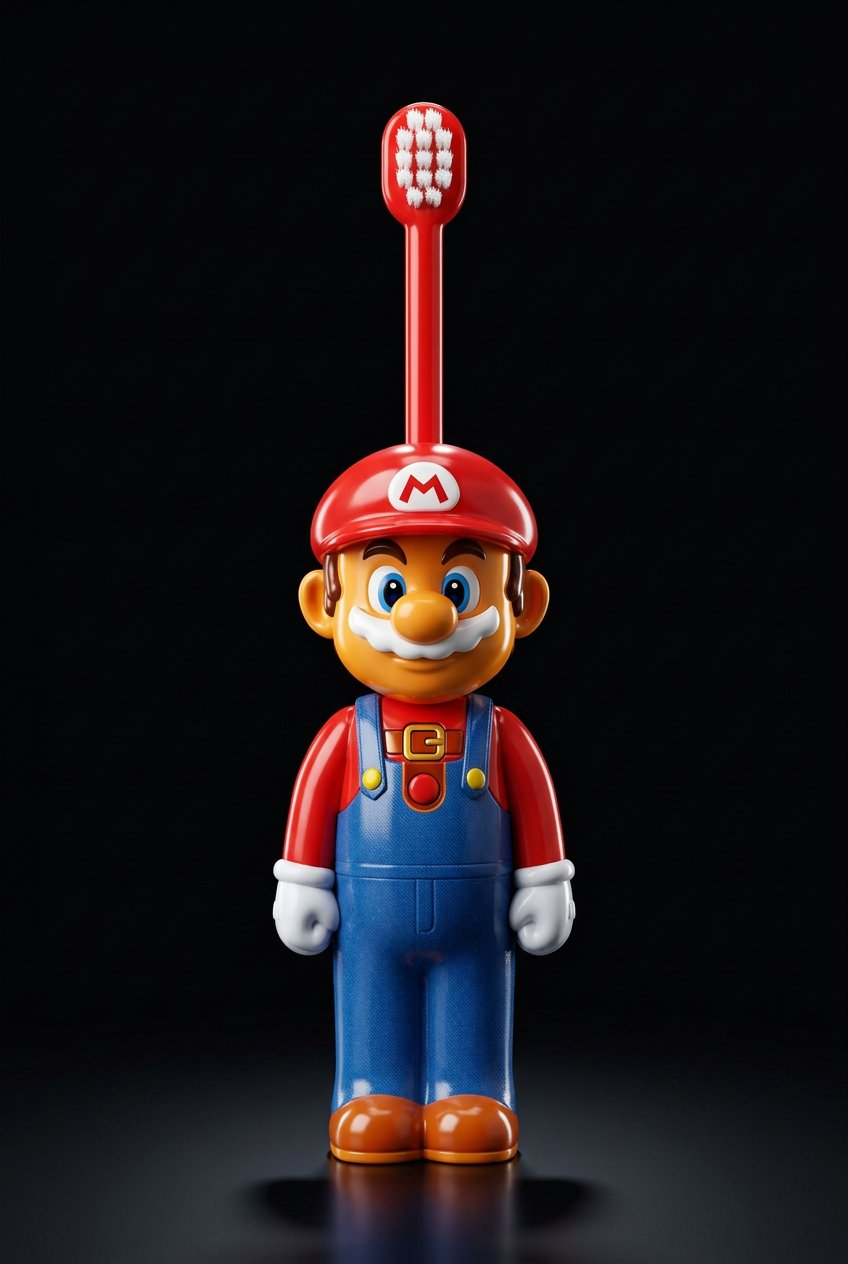
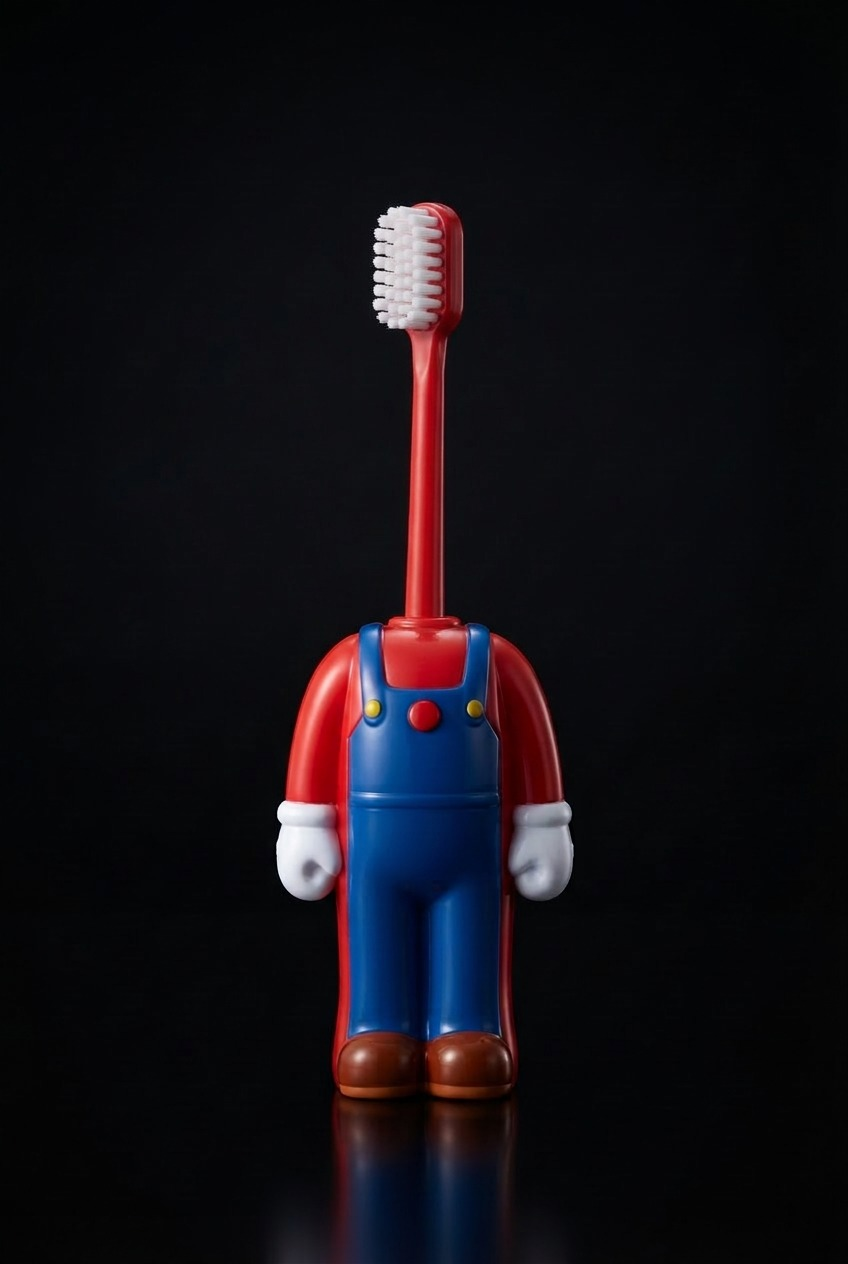
Fix Mario Toothbrush studio image to match the actual product
- studio shot regenerated from the real product photo (thin red stem,
  white bristle head, no giant bristle wand)
- og:image:alt and twitter:image:alt no longer print the ONLY \u20b999 badge
- hero alt text describes the real anatomy
- og card rebuilt with the corrected studio shot

Changed region(s): [[0.0, 0.0617, 1.0, 1.0]]

diff --git a/products/mario-toothbrush.html b/products/mario-toothbrush.html
@@ -14,34 +14,34 @@
   <link rel="preconnect" href="https://fonts.googleapis.com" />
   <link rel="preconnect" href="https://fonts.gstatic.com" crossorigin />
   <link href="https://fonts.googleapis.com/css2?family=Anton&family=Archivo:wght@500;600;700;800;900&family=Permanent+Marker&display=swap" rel="stylesheet" />
-  <link rel="stylesheet" href="/styles.css?v=tooth-20261122" />
-  <link rel="stylesheet" href="/product.css?v=tooth-20261122" />
+  <link rel="stylesheet" href="/styles.css?v=tooth-20261122-v2" />
+  <link rel="stylesheet" href="/product.css?v=tooth-20261122-v2" />
   <link rel="stylesheet" href="/accessories.css?v=header-cleanup-20261120" />
   <meta property="og:type" content="product" />
   <meta property="og:site_name" content="REDPOLY" />
   <meta property="og:title" content="Mario Toothbrush for Kids | REDPOLY" />
   <meta property="og:description" content="A glossy Mario-themed standing toothbrush — soft bristles, removable hygiene cap, 15 cm. ₹99." />
   <meta property="og:url" content="https://redpoly.justsimpleapps.online/mario-toothbrush" />
-  <meta property="og:image" content="https://redpoly.justsimpleapps.online/assets/images/redpoly/social/mario-toothbrush-og.png?v=tooth-20261122" />
-  <meta property="og:image:secure_url" content="https://redpoly.justsimpleapps.online/assets/images/redpoly/social/mario-toothbrush-og.png?v=tooth-20261122" />
+  <meta property="og:image" content="https://redpoly.justsimpleapps.online/assets/images/redpoly/social/mario-toothbrush-og.png?v=tooth-20261122-v2" />
+  <meta property="og:image:secure_url" content="https://redpoly.justsimpleapps.online/assets/images/redpoly/social/mario-toothbrush-og.png?v=tooth-20261122-v2" />
   <meta property="og:image:type" content="image/png" />
   <meta property="og:image:width" content="1200" />
   <meta property="og:image:height" content="630" />
-  <meta property="og:image:alt" content="A glossy red Mario-themed standing toothbrush on a dark REDPOLY card with an ONLY ₹99 badge." />
+  <meta property="og:image:alt" content="The glossy red Mario-themed standing toothbrush: red shirt, blue overalls, white gloves and a thin red stem with a white bristle head, on a dark REDPOLY card." />
   <meta property="product:price:amount" content="99" />
   <meta property="product:price:currency" content="INR" />
   <meta name="twitter:card" content="summary_large_image" />
   <meta name="twitter:title" content="Mario Toothbrush for Kids | REDPOLY" />
   <meta name="twitter:description" content="A glossy Mario-themed standing toothbrush — soft bristles, removable hygiene cap, 15 cm. ₹99." />
-  <meta name="twitter:image" content="https://redpoly.justsimpleapps.online/assets/images/redpoly/social/mario-toothbrush-og.png?v=tooth-20261122" />
-  <meta name="twitter:image:alt" content="A glossy red Mario-themed standing toothbrush on a dark REDPOLY card with an ONLY ₹99 badge." />
+  <meta name="twitter:image" content="https://redpoly.justsimpleapps.online/assets/images/redpoly/social/mario-toothbrush-og.png?v=tooth-20261122-v2" />
+  <meta name="twitter:image:alt" content="The glossy red Mario-themed standing toothbrush: red shirt, blue overalls, white gloves and a thin red stem with a white bristle head, on a dark REDPOLY card." />
   <script type="application/ld+json">
   {
     "@context": "https://schema.org",
     "@type": "Product",
     "name": "Mario Toothbrush for Kids, Standing 15 cm",
     "description": "A glossy Mario-themed standing toothbrush for kids: soft nylon bristles, a removable hygiene cap, a 15 cm handle.",
-    "image": "https://redpoly.justsimpleapps.online/assets/images/redpoly/products/mario-toothbrush-studio.jpg?v=tooth-20261122",
+    "image": "https://redpoly.justsimpleapps.online/assets/images/redpoly/products/mario-toothbrush-studio.jpg?v=tooth-20261122-v2",
     "color": "Red",
     "material": "Plastic",
     "offers": {
@@ -90,7 +90,7 @@
           <div class="char-media char-media--copy">
             <button class="char-media__card" type="button" data-media-open aria-haspopup="dialog" aria-controls="media-viewer" aria-label="Open the Mario Toothbrush gallery, four items">
               <span class="char-media__thumb">
-                <img src="/assets/images/redpoly/products/mario-toothbrush-studio.jpg?v=tooth-20261122" alt="" width="480" height="720" style="width:100%;height:100%;object-fit:contain" loading="lazy" />
+                <img src="/assets/images/redpoly/products/mario-toothbrush-studio.jpg?v=tooth-20261122-v2" alt="" width="480" height="720" style="width:100%;height:100%;object-fit:contain" loading="lazy" />
                 <span class="char-media__play" aria-hidden="true">&#9654;</span>
               </span>
               <span class="char-media__label">GALLERY &middot; 4</span>
@@ -117,11 +117,11 @@
         <span class="char-spark char-spark--three" aria-hidden="true"></span>
         <span class="char-spark char-spark--four" aria-hidden="true"></span>
         <span class="char-spark char-spark--five" aria-hidden="true"></span>
-        <img class="char-stage__figure" src="/assets/images/redpoly/products/mario-toothbrush-studio.jpg?v=tooth-20261122" alt="Glossy red Mario-themed standing toothbrush: red cap with a white M, blue overalls, white gloves, orange shoes and a red-bristled brush head on a 15 cm handle." width="848" height="1264" fetchpriority="high" />
+        <img class="char-stage__figure" src="/assets/images/redpoly/products/mario-toothbrush-studio.jpg?v=tooth-20261122-v2" alt="Glossy red Mario-themed standing toothbrush: red shirt, blue overalls, white gloves, brown shoes and a thin red stem topped with a white bristle head on a 15 cm stand-up handle." width="848" height="1264" fetchpriority="high" />
         <div class="char-media char-media--stage">
           <button class="char-media__card" type="button" data-media-open aria-haspopup="dialog" aria-controls="media-viewer" aria-label="Open the Mario Toothbrush gallery, four items">
             <span class="char-media__thumb">
-              <img src="/assets/images/redpoly/products/mario-toothbrush-studio.jpg?v=tooth-20261122" alt="" width="480" height="720" style="width:100%;height:100%;object-fit:contain" loading="lazy" />
+              <img src="/assets/images/redpoly/products/mario-toothbrush-studio.jpg?v=tooth-20261122-v2" alt="" width="480" height="720" style="width:100%;height:100%;object-fit:contain" loading="lazy" />
               <span class="char-media__play" aria-hidden="true">&#9654;</span>
             </span>
             <span class="char-media__label">GALLERY &middot; 4</span>
@@ -152,7 +152,7 @@
       <div class="char-file__card">
         <div class="char-file__portrait">
           <span class="char-file__no">15<small>CM TALL</small></span>
-          <img src="/assets/images/redpoly/products/mario-toothbrush-studio.jpg?v=tooth-20261122" alt="" width="480" height="720" style="width:100%;height:100%;object-fit:contain" loading="lazy" />
+          <img src="/assets/images/redpoly/products/mario-toothbrush-studio.jpg?v=tooth-20261122-v2" alt="" width="480" height="720" style="width:100%;height:100%;object-fit:contain" loading="lazy" />
           <span class="char-file__stamp" aria-hidden="true">SOFT BRISTLES<br />15 CM</span>
         </div>
         <div class="char-file__body">
@@ -223,10 +223,10 @@
         <button class="media-viewer__nav media-viewer__nav--next" type="button" data-media-next aria-label="Next item">&#8594;</button>
       </div>
       <ul id="media-viewer-slides" hidden>
-        <li data-type="image" data-src="/assets/images/redpoly/products/mario-toothbrush-studio.jpg?v=tooth-20261122" data-alt="The glossy Mario Toothbrush in a black-studio product shot, brush head raised high" data-caption="STANDING &middot; 01"></li>
-        <li data-type="image" data-src="/assets/images/redpoly/products/mario-toothbrush-scene-1.jpg?v=tooth-20261122" data-alt="The red Mario Toothbrush next to its product box, with the removable hygiene cap lying in front" data-caption="BATHROOM &middot; 02"></li>
-        <li data-type="image" data-src="/assets/images/redpoly/products/mario-toothbrush-scene-2.jpg?v=tooth-20261122" data-alt="The green Luigi Toothbrush and the red Mario Toothbrush by the sink, with the Luigi cap in front" data-caption="LUIGI + MARIO &middot; 03"></li>
-        <li data-type="image" data-src="/assets/images/redpoly/products/mario-toothbrush-explainer.jpg?v=tooth-20261122" data-alt="Product Size Comparison infographic: 15 cm tall, 5 cm wide, soft bristles, removable cap, travel friendly" data-caption="SPEC &middot; 15 CM &times; 5 CM"></li>
+        <li data-type="image" data-src="/assets/images/redpoly/products/mario-toothbrush-studio.jpg?v=tooth-20261122-v2" data-alt="The glossy Mario Toothbrush in a black-studio product shot: blue overalls, white gloves and a thin red stem with a white bristle head" data-caption="STANDING &middot; 01"></li>
+        <li data-type="image" data-src="/assets/images/redpoly/products/mario-toothbrush-scene-1.jpg?v=tooth-20261122-v2" data-alt="The red Mario Toothbrush next to its product box, with the removable hygiene cap lying in front" data-caption="BATHROOM &middot; 02"></li>
+        <li data-type="image" data-src="/assets/images/redpoly/products/mario-toothbrush-scene-2.jpg?v=tooth-20261122-v2" data-alt="The green Luigi Toothbrush and the red Mario Toothbrush by the sink, with the Luigi cap in front" data-caption="LUIGI + MARIO &middot; 03"></li>
+        <li data-type="image" data-src="/assets/images/redpoly/products/mario-toothbrush-explainer.jpg?v=tooth-20261122-v2" data-alt="Product Size Comparison infographic: 15 cm tall, 5 cm wide, soft bristles, removable cap, travel friendly" data-caption="SPEC &middot; 15 CM &times; 5 CM"></li>
       </ul>
     </div>
   </main>
@@ -239,7 +239,7 @@
   </div>
 </footer>
   <div class="toast" id="toast" role="status" aria-live="polite"></div>
-  <script src="/firebase-client.js?v=tooth-20261122" defer></script>
-  <script src="/main.js?v=tooth-20261122" defer></script>
+  <script src="/firebase-client.js?v=tooth-20261122-v2" defer></script>
+  <script src="/main.js?v=tooth-20261122-v2" defer></script>
 </body>
 </html>

diff --git a/index.html b/index.html
@@ -463,7 +463,7 @@
           <article class="shop-card" role="listitem" data-category="essentials">
             <a class="shop-card__media" href="/mario-toothbrush" style="--card-tint:#c1121f" aria-label="Open the Mario Toothbrush page">
               <span class="shop-card__tag">NEW IN STORE</span>
-              <img src="/assets/images/redpoly/products/mario-toothbrush-scene-1.jpg?v=tooth-20261122" alt="The glossy red Mario Toothbrush standing next to its product box, with the removable hygiene cap lying in front." width="832" height="1285" style="object-position:50% 40%" loading="lazy" />
+              <img src="/assets/images/redpoly/products/mario-toothbrush-scene-1.jpg?v=tooth-20261122-v2" alt="The glossy red Mario Toothbrush standing next to its product box, with the removable hygiene cap lying in front." width="832" height="1285" style="object-position:50% 40%" loading="lazy" />
             </a>
             <div class="shop-card__body">
               <h4 class="shop-card__name"><a class="shop-card__title-link" href="/mario-toothbrush">MARIO TOOTHBRUSH</a></h4>
@@ -561,7 +561,7 @@
 
 <div class="toast" id="toast" role="status" aria-live="polite"></div>
 
-<script src="/firebase-client.js?v=tooth-20261122" defer></script>
-<script src="main.js?v=tooth-20261122" defer></script>
+<script src="/firebase-client.js?v=tooth-20261122-v2" defer></script>
+<script src="main.js?v=tooth-20261122-v2" defer></script>
 </body>
 </html>

diff --git a/dashboard.js b/dashboard.js
@@ -28,7 +28,7 @@
     'RISE ONE X 4X4': { price: 1499, href: '/rise-one-x-4x4', image: '/assets/images/redpoly/products/rise-one-x-4x4-thumb.webp?v=rise-20261122' },
     'DRIFT KING': { price: 799, href: '/drift-king', image: '/assets/images/redpoly/products/drift-king-thumb.webp?v=dk-20261124' },
     'BABY LINGO': { price: 799, href: '/baby-lingo', image: '/assets/images/redpoly/products/baby-lingo-thumb.webp?v=lingo-20261119' },
-    'MARIO TOOTHBRUSH': { price: 99, href: '/mario-toothbrush', image: '/assets/images/redpoly/products/mario-toothbrush-studio.jpg?v=tooth-20261122' }
+    'MARIO TOOTHBRUSH': { price: 99, href: '/mario-toothbrush', image: '/assets/images/redpoly/products/mario-toothbrush-studio.jpg?v=tooth-20261122-v2' }
   };
   var SKU_ORDER = [
     'baby-lingo',
@@ -118,7 +118,7 @@
         'sip-buddies-apple': 'Apple'
       }
     },
-    { id: 'mario-toothbrush', name: 'MARIO TOOTHBRUSH', href: '/mario-toothbrush', image: '/assets/images/redpoly/products/mario-toothbrush-studio.jpg?v=tooth-20261122', skus: ['mario-toothbrush'], variantLabels: {} }
+    { id: 'mario-toothbrush', name: 'MARIO TOOTHBRUSH', href: '/mario-toothbrush', image: '/assets/images/redpoly/products/mario-toothbrush-studio.jpg?v=tooth-20261122-v2', skus: ['mario-toothbrush'], variantLabels: {} }
   ];
   var GROUP_BY_ID = {};
   var SKU_TO_GROUP = {};

diff --git a/account.js b/account.js
@@ -29,7 +29,7 @@
     'RISE ONE X 4X4': { price: 1499, href: '/rise-one-x-4x4', image: '/assets/images/redpoly/products/rise-one-x-4x4-thumb.webp?v=rise-20261122' },
     'DRIFT KING': { price: 799, href: '/drift-king', image: '/assets/images/redpoly/products/drift-king-thumb.webp?v=dk-20261124' },
     'BABY LINGO': { price: 799, href: '/baby-lingo', image: '/assets/images/redpoly/products/baby-lingo-thumb.webp?v=lingo-20261119' },
-    'MARIO TOOTHBRUSH': { price: 99, href: '/mario-toothbrush', image: '/assets/images/redpoly/products/mario-toothbrush-studio.jpg?v=tooth-20261122' }
+    'MARIO TOOTHBRUSH': { price: 99, href: '/mario-toothbrush', image: '/assets/images/redpoly/products/mario-toothbrush-studio.jpg?v=tooth-20261122-v2' }
   };
 
   var GOOGLE_SVG = '<svg viewBox="0 0 24 24" aria-hidden="true"><path fill="#4285F4" d="M23.5 12.3c0-.8-.1-1.6-.2-2.3H12v4.5h6.5c-.3 1.5-1.1 2.8-2.4 3.6v3h3.9c2.3-2.1 3.5-5.2 3.5-8.8z"/><path fill="#34A853" d="M12 24c3.2 0 6-1.1 8-2.9l-3.9-3c-1.1.7-2.5 1.2-4.1 1.2-3.1 0-5.8-2.1-6.8-5H1.2v3.1C3.2 21.4 7.3 24 12 24z"/><path fill="#FBBC05" d="M5.2 14.3a7.2 7.2 0 0 1 0-4.6V6.6H1.2C.4 8.2 0 10.1 0 12s.4 3.8 1.2 5.4l4-3.1z"/><path fill="#EA4335" d="M12 4.7c1.8 0 3.3.6 4.6 1.8l3.4-3.4C17.9 1.2 15.2 0 12 0 7.3 0 3.2 2.6 1.2 6.6l4 3.1c1-2.9 3.7-5 6.8-5z"/></svg>';

diff --git a/main.js b/main.js
@@ -100,7 +100,7 @@
     'RISE ONE X 4X4': { price:1499, href:'/rise-one-x-4x4', image:'/assets/images/redpoly/products/rise-one-x-4x4-thumb.webp?v=rise-20261122' },
     'DRIFT KING': { price:799, href:'/drift-king', image:'/assets/images/redpoly/products/drift-king-thumb.webp?v=dk-20261124' },
     'BABY LINGO': { price:799, href:'/baby-lingo', image:'/assets/images/redpoly/products/baby-lingo-thumb.webp?v=lingo-20261119' },
-    'MARIO TOOTHBRUSH': { price:99, href:'/mario-toothbrush', image:'/assets/images/redpoly/products/mario-toothbrush-studio.jpg?v=tooth-20261122' }
+    'MARIO TOOTHBRUSH': { price:99, href:'/mario-toothbrush', image:'/assets/images/redpoly/products/mario-toothbrush-studio.jpg?v=tooth-20261122-v2' }
   };
   function isCatalogueProduct(name) { return Object.prototype.hasOwnProperty.call(catalogue, name); }
   function inCatalogue(name, price) { return isCatalogueProduct(name) && catalogue[name].price === Number(price); }

diff --git a/checkout.html b/checkout.html
@@ -15,8 +15,8 @@
   <link href="https://fonts.googleapis.com/css2?family=Anton&family=Archivo:wght@500;600;700;800;900&family=Permanent+Marker&display=swap" rel="stylesheet" />
   <link rel="stylesheet" href="/styles.css?v=sticky-fix-20261119" />
   <link rel="stylesheet" href="/checkout.css?v=sticky-fix-20261119" />
-  <script src="/firebase-client.js?v=tooth-20261122" defer></script>
-  <script src="/checkout.js?v=tooth-20261122" defer></script>
+  <script src="/firebase-client.js?v=tooth-20261122-v2" defer></script>
+  <script src="/checkout.js?v=tooth-20261122-v2" defer></script>
 </head>
 <body class="checkout-page">
 <header class="site-header">
@@ -107,6 +107,6 @@
     <p class="site-footer__legal">GSTIN 27BJGPK5062E1ZB</p>
   </div>
 </footer>
-<script src="/main.js?v=tooth-20261122" defer></script>
+<script src="/main.js?v=tooth-20261122-v2" defer></script>
 </body>
 </html>

diff --git a/checkout.js b/checkout.js
@@ -30,7 +30,7 @@
     'RISE ONE X 4X4': { price:1499, image:'/assets/images/redpoly/products/rise-one-x-4x4-thumb.webp?v=rise-20261122' },
     'DRIFT KING': { price:799, image:'/assets/images/redpoly/products/drift-king-thumb.webp?v=dk-20261124' },
     'BABY LINGO': { price:799, image:'/assets/images/redpoly/products/baby-lingo-thumb.webp?v=lingo-20261119' },
-    'MARIO TOOTHBRUSH': { price:99, image:'/assets/images/redpoly/products/mario-toothbrush-studio.jpg?v=tooth-20261122' }
+    'MARIO TOOTHBRUSH': { price:99, image:'/assets/images/redpoly/products/mario-toothbrush-studio.jpg?v=tooth-20261122-v2' }
   };
   var liveCatalogMap = {};
   (function hydrateCatalogFromCache() {

diff --git a/account.html b/account.html
@@ -152,8 +152,8 @@
 
 <div class="toast" id="toast" role="status" aria-live="polite"></div>
 
-<script src="/firebase-client.js?v=tooth-20261122" defer></script>
-<script src="/main.js?v=tooth-20261122" defer></script>
-<script src="/account.js?v=tooth-20261122" defer></script>
+<script src="/firebase-client.js?v=tooth-20261122-v2" defer></script>
+<script src="/main.js?v=tooth-20261122-v2" defer></script>
+<script src="/account.js?v=tooth-20261122-v2" defer></script>
 </body>
 </html>

diff --git a/dashboard.html b/dashboard.html
@@ -1141,7 +1141,7 @@
 
   <div class="dash-toast" id="dash-toast" role="status" aria-live="polite"></div>
 
-  <script src="/firebase-client.js?v=tooth-20261122" defer></script>
-  <script src="/dashboard.js?v=tooth-20261122" defer></script>
+  <script src="/firebase-client.js?v=tooth-20261122-v2" defer></script>
+  <script src="/dashboard.js?v=tooth-20261122-v2" defer></script>
 </body>
 </html>

diff --git a/src/firebase-client.ts b/src/firebase-client.ts
@@ -458,7 +458,7 @@ const CATALOGUE: Record<string, CatalogueEntry> = {
   'MARIO TOOTHBRUSH': {
     price: 99,
     href: '/mario-toothbrush',
-    image: '/assets/images/redpoly/products/mario-toothbrush-studio.jpg?v=tooth-20261122',
+    image: '/assets/images/redpoly/products/mario-toothbrush-studio.jpg?v=tooth-20261122-v2',
   },
 };
 
